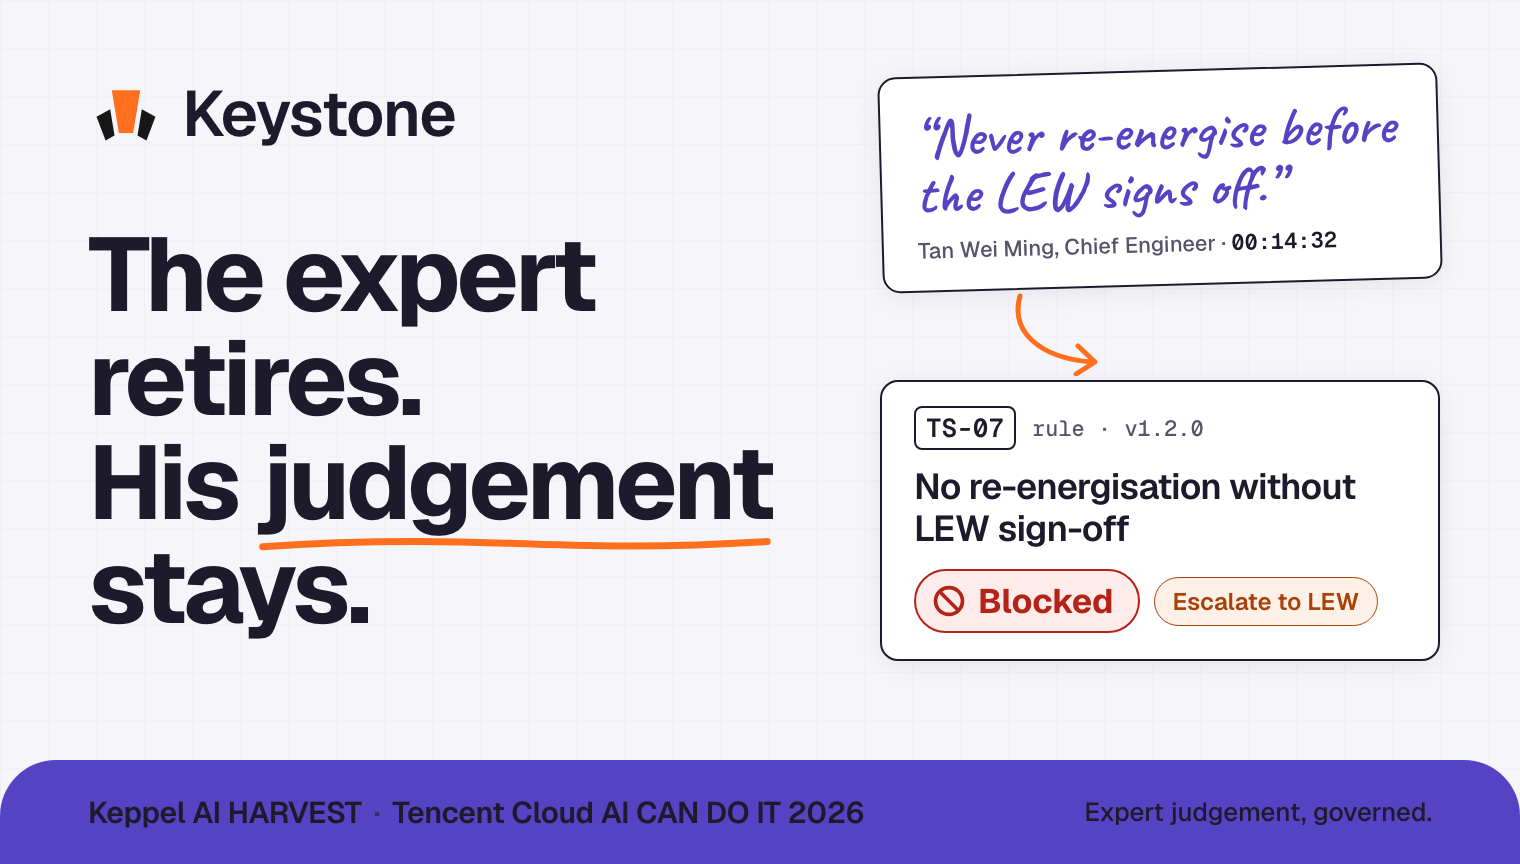
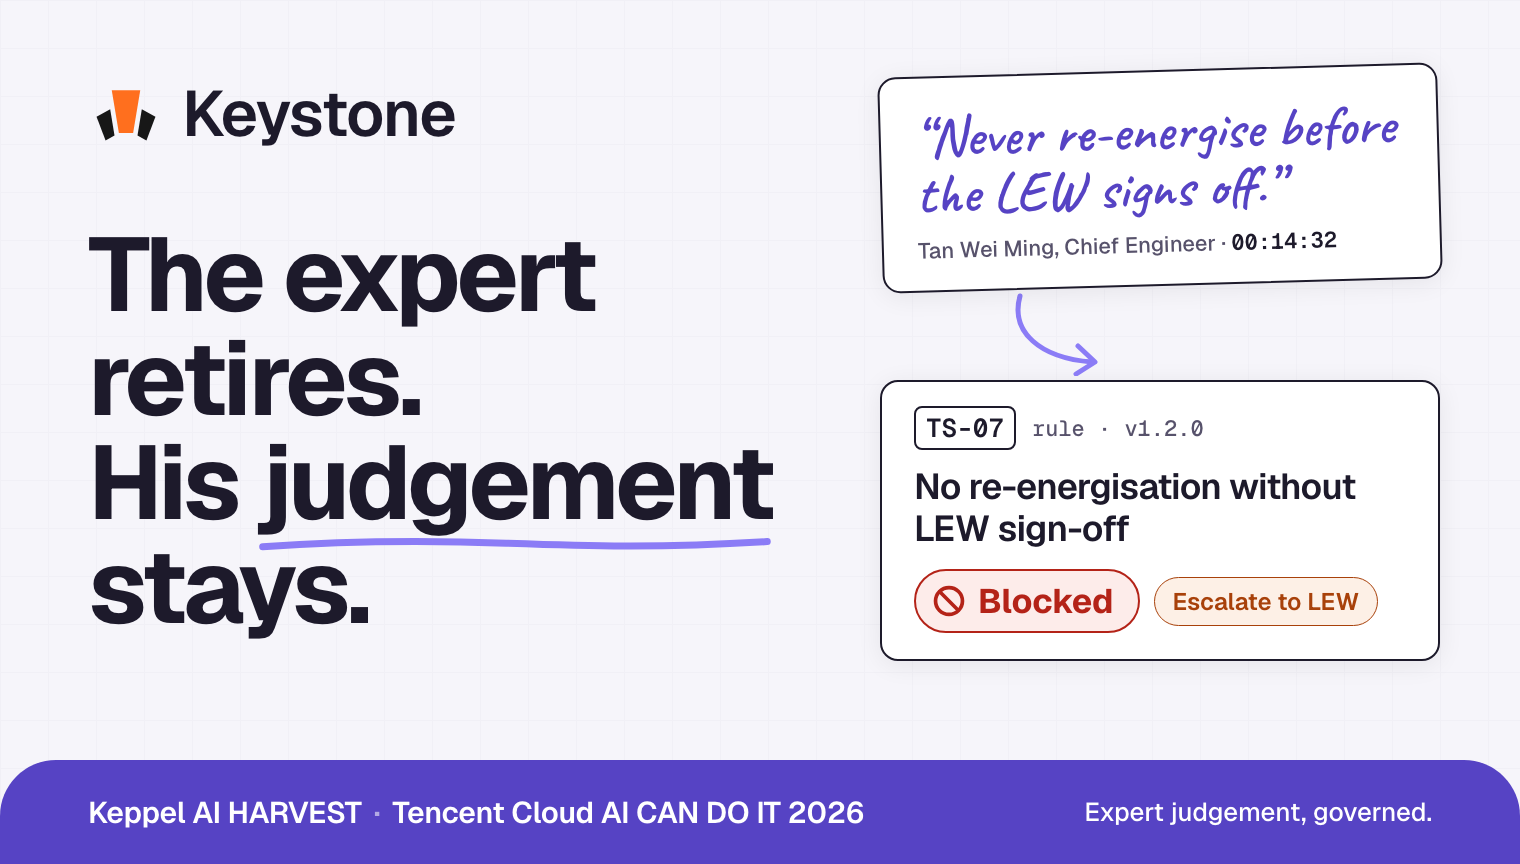
fix(cover): the retheme left the band unreadable and two marks orange
Rethemeing the submission art to the app's tokens moved --marker from orange
to the indigo accent, and the cover's band paints charcoal text on --marker.
On orange that read at about 5:1; on indigo it is 1.5:1, so the event line
and the tagline were all but invisible. The band's text is white now, which
is about 7:1 on #5643c4.

Two decorative strokes were still the old orange: the underline under
"judgement" and the arrow from the expert's quote to the rule it became.
Both are --lavender now, which is what the app reserves for strokes and
bars. The keystone in the logo stays orange, because that is the one thing
--brand-keystone is for.

Checked at both sizes: the headline, the wordmark and the Blocked chip all
survive 380x216.

Claude-Session: https://claude.ai/code/session_01JjnGgnEHobmqshrWgEYDRx

diff --git a/docs/submission/cover.html b/docs/submission/cover.html
@@ -53,7 +53,7 @@
     background: var(--escalate-bg); border: 1.5px solid var(--escalate); border-radius: 999px; padding: 8px 18px; }
 
   .band { position: absolute; left: 0; right: 0; bottom: 0; height: 104px; background: var(--marker); border-radius: 56px 56px 0 0;
-    display: flex; align-items: center; justify-content: space-between; padding: 0 88px; color: var(--charcoal); }
+    display: flex; align-items: center; justify-content: space-between; padding: 0 88px; color: #ffffff; }
   .band .event { font-size: 30px; font-weight: 600; letter-spacing: -0.01em; }
   .band .event i { font-style: normal; opacity: .55; padding: 0 12px; }
   .band .tag { font-size: 26px; font-weight: 500; }
@@ -71,7 +71,7 @@
       </svg>
       <span>Keystone</span>
     </div>
-    <h1>The expert retires.<br>His <span class="hl">judgement<svg viewBox="0 0 120 10" preserveAspectRatio="none"><path d="M2 6.4C20 3.6 38 3.1 58 4.6c18 1.4 35 2.6 60-.8" fill="none" stroke="#ff6f1e" stroke-width="7" stroke-linecap="round" vector-effect="non-scaling-stroke"/></svg></span> stays.</h1>
+    <h1>The expert retires.<br>His <span class="hl">judgement<svg viewBox="0 0 120 10" preserveAspectRatio="none"><path d="M2 6.4C20 3.6 38 3.1 58 4.6c18 1.4 35 2.6 60-.8" fill="none" stroke="#8b7cf6" stroke-width="7" stroke-linecap="round" vector-effect="non-scaling-stroke"/></svg></span> stays.</h1>
   </div>
 
   <div class="right">
@@ -80,8 +80,8 @@
       <div class="who">Tan Wei Ming, Chief Engineer · <b>00:14:32</b></div>
     </div>
     <svg class="arrow" viewBox="0 0 120 84" aria-hidden="true">
-      <path d="M20 4 C 10 40, 40 66, 92 70" fill="none" stroke="#ff6f1e" stroke-width="5" stroke-linecap="round"/>
-      <path d="M78 54 L95 70 L76 82" fill="none" stroke="#ff6f1e" stroke-width="5" stroke-linecap="round" stroke-linejoin="round"/>
+      <path d="M20 4 C 10 40, 40 66, 92 70" fill="none" stroke="#8b7cf6" stroke-width="5" stroke-linecap="round"/>
+      <path d="M78 54 L95 70 L76 82" fill="none" stroke="#8b7cf6" stroke-width="5" stroke-linecap="round" stroke-linejoin="round"/>
     </svg>
     <div class="rule">
       <div class="top"><span class="rid">TS-07</span><span class="ver">rule · v1.2.0</span></div>
